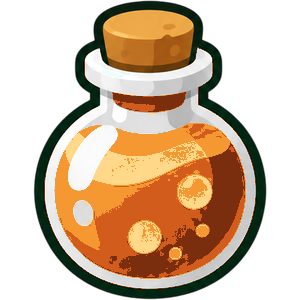
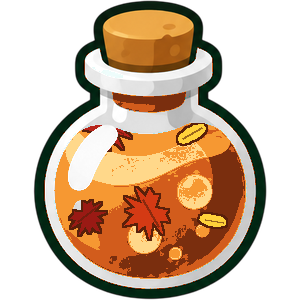
Harvest dye: autumn leaves floating in the liquid
Claude-Session: https://claude.ai/code/session_016T1x9t3fXLSJ9Wj3N5qPHM

diff --git a/scripts/make_bottles2.py b/scripts/make_bottles2.py
@@ -124,6 +124,36 @@ def dye(skin, shape):
     if skin == 'shadow':
         wisp = ((np.sin(xx / 14 + np.sin(yy / 20) * 2) > 0.85) & (level >= 2)).astype(np.float32) * liq
         add = [(wisp, '#a46bff')]
+    if skin == 'harvest':
+        # Autumn leaves floating in the liquid: little maple and oval leaves in red, orange and gold.
+        from PIL import ImageDraw
+        from scipy import ndimage
+        inside = ndimage.binary_fill_holes(ndimage.binary_closing(liq > 0, iterations=4)).astype(np.float32)
+        ys, xs = np.nonzero(liq); x0, x1, y0, y1 = xs.min(), xs.max(), ys.min(), ys.max()
+        spots = [(0.3, 0.33, 22, 25, '#b8241a'), (0.7, 0.36, 15, -30, '#ffd23a'), (0.5, 0.68, 22, 60, '#d43a14'), (0.8, 0.72, 13, 10, '#ffd23a'), (0.2, 0.7, 16, -40, '#9a1a14')]
+        for k, (fx, fy, r, ang, c) in enumerate(spots):
+            cx, cy = x0 + (x1 - x0) * fx, y0 + (y1 - y0) * fy
+            g = Image.new('L', (SIZE, SIZE), 0); d = ImageDraw.Draw(g)
+            if k % 2 == 0:
+                # maple: 5 points
+                # maple: three big lobes up and two side lobes, each with small teeth, plus a stem
+                prof = [1.0, 0.55, 0.8, 0.5, 0.95, 0.35, 0.9, 0.5, 0.75, 0.55, 0.62, 0.3, 0.2, 0.3, 0.62, 0.55, 0.75, 0.5, 0.9, 0.35, 0.95, 0.5, 0.8, 0.55]
+                prof = prof[12:] + prof[:12]
+                pts = [(cx + r * 1.3 * q * np.cos(np.radians(ang - 90 + i * 15)), cy + r * 1.3 * q * np.sin(np.radians(ang - 90 + i * 15))) for i, q in enumerate(prof)]
+                d.polygon(pts, fill=255)
+                tb = np.radians(ang + 90)
+                d.line([cx, cy, cx + r * 1.1 * np.cos(tb), cy + r * 1.1 * np.sin(tb)], fill=255, width=3)
+            else:
+                t = np.radians(ang)
+                w2 = lambda u: 0.42 * abs(np.sin(u)) ** 0.8 * np.sign(np.sin(u))
+                pts = [(cx + r * np.cos(t) * np.cos(u) - r * w2(u) * np.sin(t), cy + r * np.sin(t) * np.cos(u) + r * w2(u) * np.cos(t)) for u in np.linspace(0, 2 * np.pi, 32)]
+                d.polygon(pts, fill=255)
+            m = np.asarray(g, dtype=np.float32) / 255 * inside
+            edge = np.clip(np.asarray(Image.fromarray((m * 255).astype(np.uint8)).filter(ImageFilter.MaxFilter(5)), dtype=np.float32) / 255 - m, 0, 1) * inside
+            vein = np.zeros((SIZE, SIZE), dtype=np.float32)
+            vg = Image.new('L', (SIZE, SIZE), 0); ImageDraw.Draw(vg).line([cx - r * 0.6 * np.cos(np.radians(ang)), cy - r * 0.6 * np.sin(np.radians(ang)), cx + r * 0.8 * np.cos(np.radians(ang)), cy + r * 0.8 * np.sin(np.radians(ang))], fill=255, width=2)
+            vein = np.asarray(vg, dtype=np.float32) / 255 * m
+            post += [(edge, '#5a200a'), (m, c), (vein * 0.6, '#5a200a')]
     for m, c in add:
         col = col * (1 - m[..., None]) + hexc(c) * m[..., None]
     # The pack's shine on the liquid keeps a hint of its original color: make those highlights neutral.
